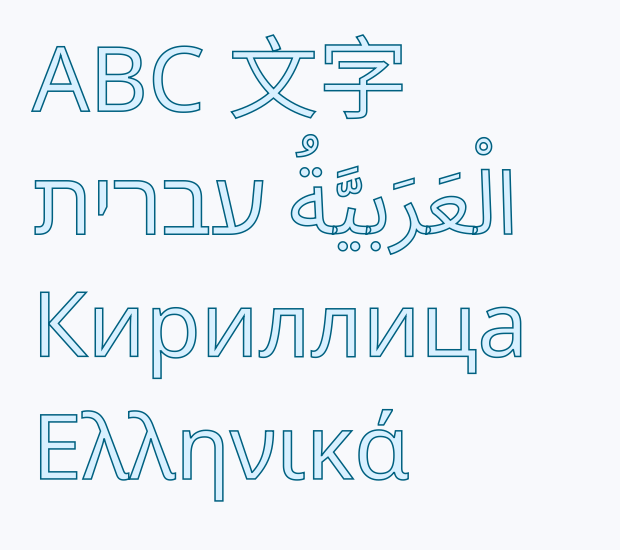
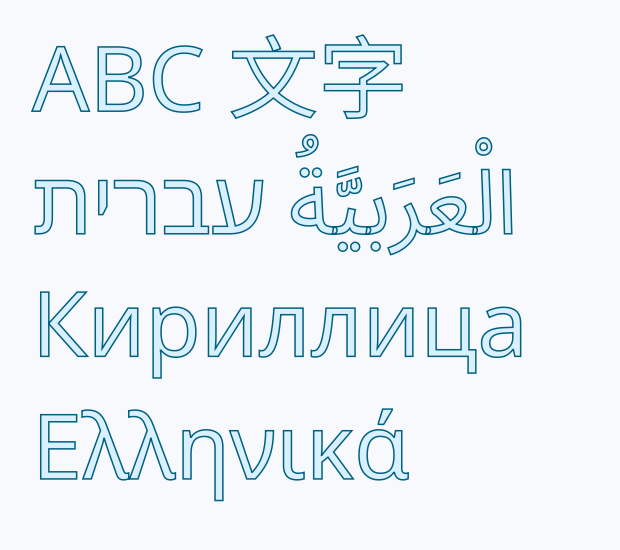
Add font hinting setting

diff --git a/include/brisk/graphics/Fonts.hpp b/include/brisk/graphics/Fonts.hpp
@@ -82,6 +82,20 @@ enum class FontStyle : uint8_t {
     Italic = 1,
 };
 
+/** @brief Glyph hinting policy used when loading font glyphs. */
+enum class Hinting : uint8_t {
+    Auto,    ///< Use the backend's default hinting behavior.
+    Enable,  ///< Force hinting on.
+    Disable, ///< Load glyphs unhinted.
+};
+
+template <>
+inline constexpr std::initializer_list<NameValuePair<Hinting>> defaultNames<Hinting>{
+    { "Auto", Hinting::Auto },
+    { "Enable", Hinting::Enable },
+    { "Disable", Hinting::Disable },
+};
+
 template <>
 inline constexpr std::initializer_list<NameValuePair<FontStyle>> defaultNames<FontStyle>{
     { "Normal", FontStyle::Normal },
@@ -512,6 +526,7 @@ struct Font {
     float wordSpacing             = 0.f;   ///< Additional space between words.
     float verticalAlign           = 0.f;   ///< Vertical alignment offset.
     OpenTypeFeatureFlags features{};       ///< OpenType features for advanced text styling.
+    Hinting hinting                           = Hinting::Auto; ///< Glyph hinting policy.
 
     inline static const std::tuple reflection = {
         ReflectionField{ "fontFamily", &Font::fontFamily },
@@ -525,6 +540,7 @@ struct Font {
         ReflectionField{ "wordSpacing", &Font::wordSpacing },
         ReflectionField{ "verticalAlign", &Font::verticalAlign },
         ReflectionField{ "features", &Font::features },
+        ReflectionField{ "hinting", &Font::hinting },
     };
 
     /**

diff --git a/src/graphics/TextLayout_test.cpp b/src/graphics/TextLayout_test.cpp
@@ -372,7 +372,7 @@ TEST_CASE("TextEngine Canvas renderer", "[text-layout][visual]") {
 TEST_CASE("TextEngine renders text outlines as paths", "[text-layout][visual]") {
     registerTextLayoutVisualFonts();
 
-    const Font font{ "TextLayoutTest", 90.f };
+    const Font font{ .fontFamily = "TextLayoutTest", .fontSize = 90.f, .hinting = Hinting::Disable };
     const ShapedText prepared = fonts->shapeText(font, TextWithOptions{ U"Bézier text\nfilled and stroked" });
     TextLayoutOptions options;
     options.maxLineWidth    = 500.f;
@@ -416,7 +416,7 @@ TEST_CASE("TextEngine renders complex arabic text", "[text-layout][visual]") {
 TEST_CASE("TextEngine renders multilingual text outlines as paths", "[text-layout][visual]") {
     registerTextLayoutVisualFonts();
 
-    const Font notoFont{ "TextLayoutNoto", 90.f };
+    const Font notoFont{ .fontFamily = "TextLayoutNoto", .fontSize = 90.f, .hinting = Hinting::Disable };
     const ShapedText multilingual =
         fonts->shapeText(notoFont, TextWithOptions{ U"ABC 文字 اَلْعَرَبِيَّةُ עברית Кириллица Ελληνικά" });
     TextLayoutOptions multilingualOptions;

diff --git a/src/graphics/Fonts.cpp b/src/graphics/Fonts.cpp
@@ -113,7 +113,7 @@ ConvertedFont convertFont(const Font& source, const std::shared_ptr<TextEngine::
         .verticalAlign = TextEngine::fromFloat(source.verticalAlign),
         .features      = converted.features,
         .variations    = {},
-        .hinting       = TextEngine::Hinting::Auto,
+        .hinting       = static_cast<TextEngine::Hinting>(source.hinting),
     };
 
     if (source.lineHeight > 0.f) {
